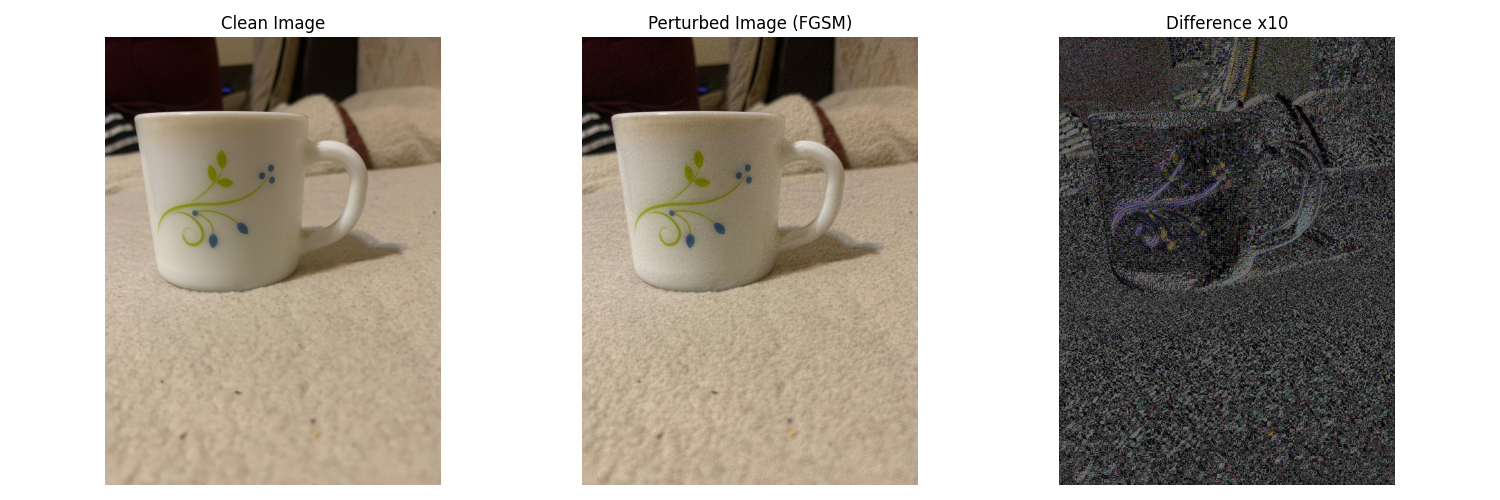
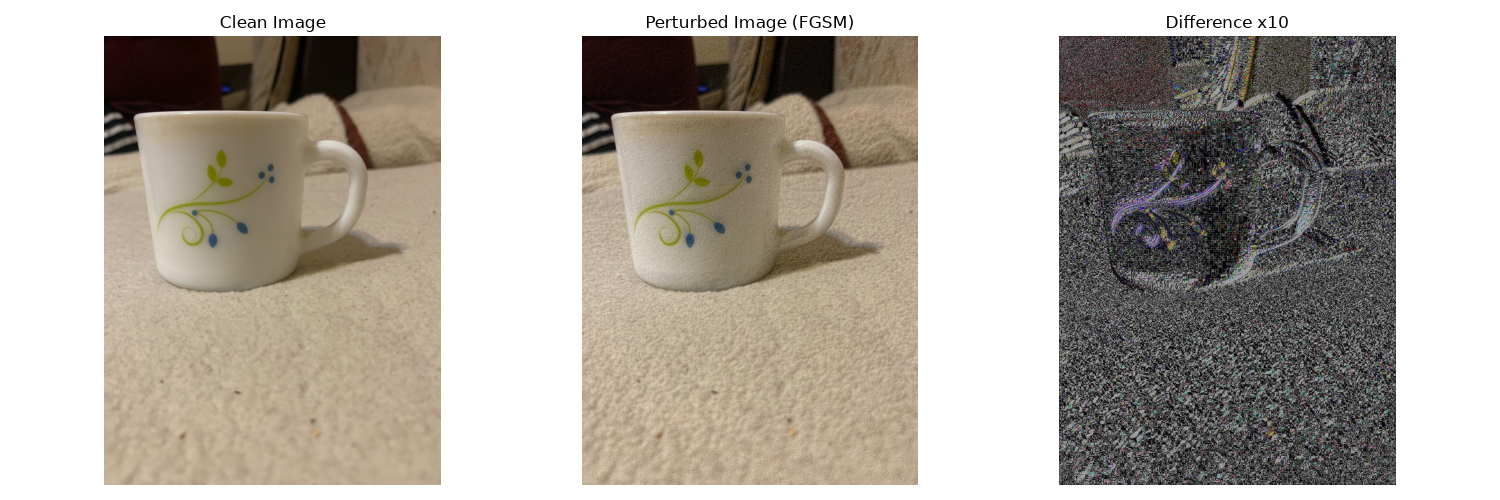
Add evaluation results - Chamfer distance across epsilon values 0.01 to 0.05

diff --git a/evaluation/evaluate.py b/evaluation/evaluate.py
@@ -1,0 +1,71 @@
+import numpy as np
+import open3d as o3d
+import os
+
+def load_point_cloud(path):
+    """Load a .ply file and return as numpy array"""
+    pcd = o3d.io.read_point_cloud(path)
+    points = np.asarray(pcd.points)
+    print(f"Loaded {path} — {len(points)} points")
+    return pcd, points
+
+def chamfer_distance(points1, points2):
+    """
+    Compute Chamfer Distance between two point clouds.
+    Lower = more similar
+    Higher = more different (attack caused more damage)
+    """
+    # For each point in cloud1, find nearest point in cloud2
+    pcd2 = o3d.geometry.PointCloud()
+    pcd2.points = o3d.utility.Vector3dVector(points2)
+    pcd2_tree = o3d.geometry.KDTreeFlann(pcd2)
+
+    dist1 = []
+    for point in points1:
+        _, _, d = pcd2_tree.search_knn_vector_3d(point, 1)
+        dist1.append(d[0])
+
+    # For each point in cloud2, find nearest point in cloud1
+    pcd1 = o3d.geometry.PointCloud()
+    pcd1.points = o3d.utility.Vector3dVector(points1)
+    pcd1_tree = o3d.geometry.KDTreeFlann(pcd1)
+
+    dist2 = []
+    for point in points2:
+        _, _, d = pcd1_tree.search_knn_vector_3d(point, 1)
+        dist2.append(d[0])
+
+    # Chamfer distance = mean of both directions
+    chamfer = np.mean(dist1) + np.mean(dist2)
+    return chamfer
+
+def main():
+    clean_path = r"E:\adversarial-sfm\results\clean.ply"
+    attacked_path = r"E:\adversarial-sfm\results\attacked_eps003.ply"
+
+    # Load both point clouds
+    clean_pcd, clean_points = load_point_cloud(clean_path)
+    attacked_pcd, attacked_points = load_point_cloud(attacked_path)
+
+    print(f"\nClean points: {len(clean_points)}")
+    print(f"Attacked points: {len(attacked_points)}")
+
+    # Compute Chamfer distance
+    print("\nComputing Chamfer distance...")
+    cd = chamfer_distance(clean_points, attacked_points)
+
+    print(f"\n--- RESULTS ---")
+    print(f"Chamfer Distance (clean vs attacked): {cd:.6f}")
+    print(f"Higher = more damage from attack")
+
+    # Save results to file
+    results_path = r"E:\adversarial-sfm\results\chamfer_results.txt"
+    with open(results_path, "w") as f:
+        f.write(f"Chamfer Distance (clean vs attacked): {cd:.6f}\n")
+        f.write(f"Clean point count: {len(clean_points)}\n")
+        f.write(f"Attacked point count: {len(attacked_points)}\n")
+    
+    print(f"\nResults saved to {results_path}")
+
+if __name__ == "__main__":
+    main()

diff --git a/attack/attack.py b/attack/attack.py
@@ -97,10 +97,10 @@ def main():
     input_folder = r"E:\adversarial-sfm\clean_images"
     
     # --- Output folder: perturbed images saved here ---
-    output_folder = r"E:\adversarial-sfm\results\perturbed_images"
+    output_folder = r"E:\adversarial-sfm\results\perturbed_eps003"
     
     # Process all images
-    process_folder(input_folder, output_folder, epsilon=0.02)
+    process_folder(input_folder, output_folder, epsilon=0.03)
     
     # Save comparison using first image as sample
     valid_extensions = ('.jpg', '.jpeg', '.png', '.bmp')